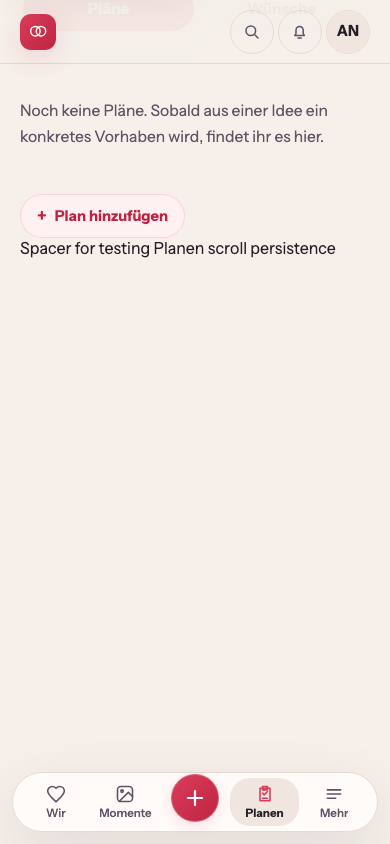
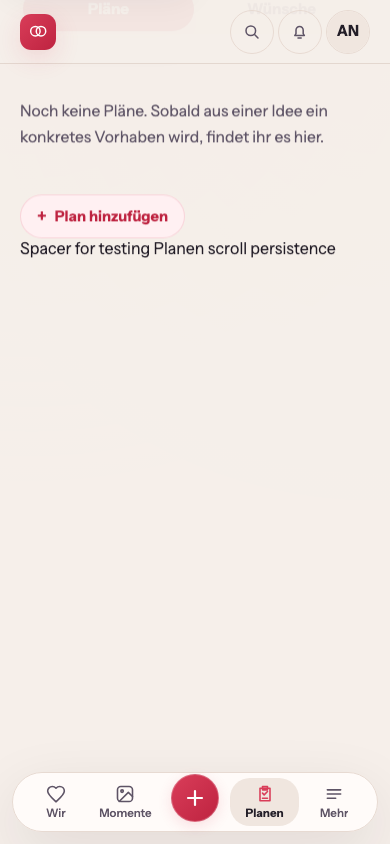
fix(web): reset floating bottom nav visibility on same-path peer mode changes (#970)
- Pass location.search into useHideOnScrollNav to key navigation identity by `${pathname}${search}`
- Reset bar visibility when switching between peer modes on /story (?tab=discover <-> ?tab=timeline)
- Correct documentation describing Momente feed views and remove references to /explore
- Add unit, component, and Playwright regression tests for same-path peer mode switching

diff --git a/web/src/components/AppShell.test.tsx b/web/src/components/AppShell.test.tsx
@@ -5,8 +5,9 @@ import {
   QueryClientProvider,
 } from '@tanstack/react-query';
 import { act, render, waitFor } from '@testing-library/react';
+import { useEffect } from 'react';
 import { renderToStaticMarkup } from 'react-dom/server';
-import { MemoryRouter } from 'react-router-dom';
+import { MemoryRouter, useNavigate } from 'react-router-dom';
 import { authorSummaryQueryKeys } from '../client/authorSummaryConsumers';
 import navigation from '../i18n/locales/navigation';
 import { AppShell } from './AppShell';
@@ -507,5 +508,88 @@ describe('AppShell', () => {
       window.dispatchEvent(new Event('scroll'));
     });
     expect(planBottomShell?.getAttribute('data-hidden')).toBe('false');
+  });
+
+  it('resets data-hidden="false" on same-path search query changes (/story?tab=discover <-> /story?tab=timeline) (#970)', () => {
+    const queryClient = new QueryClient({
+      defaultOptions: { queries: { retry: false } },
+    });
+    queryClient.setQueryData(authorSummaryQueryKeys.space('space-1'), {
+      id: 'space-1',
+      createdAt: new Date('2024-01-01T00:00:00.000Z'),
+      partners: [],
+    });
+
+    Object.defineProperty(document.documentElement, 'scrollHeight', {
+      value: 3000,
+      configurable: true,
+    });
+    Object.defineProperty(window, 'innerHeight', {
+      value: 800,
+      configurable: true,
+    });
+    Object.defineProperty(window, 'scrollY', {
+      value: 0,
+      writable: true,
+      configurable: true,
+    });
+
+    let navigateFn: (to: string) => void = () => {};
+    function RouteTrigger() {
+      const navigate = useNavigate();
+      useEffect(() => {
+        navigateFn = (to: string) => navigate(to);
+      }, [navigate]);
+      return null;
+    }
+
+    const { container } = render(
+      <QueryClientProvider client={queryClient}>
+        <MemoryRouter initialEntries={['/story?tab=discover']}>
+          <RouteTrigger />
+          <AppShell
+            onLogout={() => undefined}
+            apiBaseUrl="http://api.example.test"
+            accessToken="test-token"
+            account={{ id: 'account-1', displayName: 'Alex Example' }}
+            spaceId="space-1"
+          >
+            <div style={{ height: '3000px' }}>Feed content</div>
+          </AppShell>
+        </MemoryRouter>
+      </QueryClientProvider>,
+    );
+
+    const bottomShell = container.querySelector('.mobile-bottom-shell');
+    expect(bottomShell).not.toBeNull();
+    expect(bottomShell?.getAttribute('data-hidden')).toBe('false');
+
+    // Scroll down 100px to hide bottom shell
+    act(() => {
+      window.scrollY = 100;
+      window.dispatchEvent(new Event('scroll'));
+    });
+    expect(bottomShell?.getAttribute('data-hidden')).toBe('true');
+
+    // Peer mode switch on same pathname (/story?tab=discover -> /story?tab=timeline)
+    act(() => {
+      navigateFn('/story?tab=timeline');
+    });
+
+    expect(bottomShell?.getAttribute('data-hidden')).toBe('false');
+
+    // Scroll down again in timeline mode
+    act(() => {
+      window.scrollY = 200;
+      window.dispatchEvent(new Event('scroll'));
+    });
+    expect(bottomShell?.getAttribute('data-hidden')).toBe('true');
+
+    // Switch back to discover mode (/story?tab=timeline -> /story?tab=discover)
+    act(() => {
+      navigateFn('/story?tab=discover');
+    });
+
+    expect(bottomShell?.getAttribute('data-hidden')).toBe('false');
   });
 });

diff --git a/web/src/client/useHideOnScrollNav.test.ts b/web/src/client/useHideOnScrollNav.test.ts
@@ -1,12 +1,15 @@
+// @vitest-environment jsdom
+import { act, renderHook } from '@testing-library/react';
 import { describe, expect, it } from 'vitest';
 import {
   computeScrollNavStep,
   createInitialScrollNavState,
   isHideOnScrollRoute,
+  useHideOnScrollNav,
 } from './useHideOnScrollNav';
 
 describe('isHideOnScrollRoute', () => {
-  it('enables hide-on-scroll for Momente / Timeline and Entdecken feeds', () => {
+  it('enables hide-on-scroll for Momente feed surfaces and year archives', () => {
     expect(isHideOnScrollRoute('/story')).toBe(true);
     expect(isHideOnScrollRoute('/story/years')).toBe(true);
     expect(isHideOnScrollRoute('/story/years/2026')).toBe(true);
@@ -206,5 +209,68 @@ describe('computeScrollNavStep', () => {
       ...scrollablePage,
     });
     expect(state.isVisible).toBe(true);
+  });
+});
+
+describe('useHideOnScrollNav hook', () => {
+  it('starts visible on /story?tab=discover', () => {
+    const { result } = renderHook(() =>
+      useHideOnScrollNav('/story', '?tab=discover'),
+    );
+    expect(result.current.isVisible).toBe(true);
+  });
+
+  it('resets visibility to visible when switching search params between discover and timeline', () => {
+    Object.defineProperty(document.documentElement, 'scrollHeight', {
+      value: 3000,
+      configurable: true,
+    });
+    Object.defineProperty(window, 'innerHeight', {
+      value: 800,
+      configurable: true,
+    });
+    Object.defineProperty(window, 'scrollY', {
+      value: 0,
+      writable: true,
+      configurable: true,
+    });
+
+    const { result, rerender } = renderHook(
+      ({ pathname, search }: { pathname: string; search: string }) =>
+        useHideOnScrollNav(pathname, search),
+      {
+        initialProps: { pathname: '/story', search: '?tab=discover' },
+      },
+    );
+
+    expect(result.current.isVisible).toBe(true);
+
+    // Simulate downward scroll by 100px (> 50px threshold)
+    act(() => {
+      window.scrollY = 100;
+      window.dispatchEvent(new Event('scroll'));
+    });
+    expect(result.current.isVisible).toBe(false);
+
+    // Switch peer mode: /story?tab=discover -> /story?tab=timeline
+    act(() => {
+      rerender({ pathname: '/story', search: '?tab=timeline' });
+    });
+    // Navigation identity change MUST restore visibility!
+    expect(result.current.isVisible).toBe(true);
+
+    // Scroll down again on timeline mode
+    act(() => {
+      window.scrollY = 200;
+      window.dispatchEvent(new Event('scroll'));
+    });
+    expect(result.current.isVisible).toBe(false);
+
+    // Switch reverse mode: /story?tab=timeline -> /story?tab=discover
+    act(() => {
+      rerender({ pathname: '/story', search: '?tab=discover' });
+    });
+    // Reverse switch also restores visibility!
+    expect(result.current.isVisible).toBe(true);
   });
 });

diff --git a/web/e2e/tests/floating-bottom-nav-scroll.spec.ts b/web/e2e/tests/floating-bottom-nav-scroll.spec.ts
@@ -635,4 +635,61 @@ test.describe('Context-Aware Hide-on-Scroll Navigation (#970)', () => {
       dimensionsBefore.scrollWidth,
     );
   });
+
+  test('Momente same-path peer mode navigation: switching Discover ↔ Timeline through product UI restores visible bottom navigation (#970)', async ({
+    page,
+  }) => {
+    await page.setViewportSize({ width: 390, height: 844 });
+    await installApiMocks(page);
+    await page.goto('/login');
+    await signIn(page);
+    await page.waitForURL('**/today');
+
+    // 1. Open /story?tab=discover
+    await page.goto('/story?tab=discover');
+    await page.waitForSelector('.momente-discover-page');
+    const bottomShell = page.locator('.mobile-bottom-shell');
+    await expect(bottomShell).toBeVisible();
+    await expect(bottomShell).toHaveAttribute('data-hidden', 'false');
+
+    // 2. Scroll enough to hide the bottom bar (> 50px downward scroll)
+    await page.evaluate(() => {
+      window.scrollTo({ top: 80, behavior: 'instant' });
+      window.dispatchEvent(new Event('scroll'));
+    });
+    await expect(bottomShell).toHaveAttribute('data-hidden', 'true');
+
+    // 3. Switch to Timeline through the actual product UI
+    const timelineTab = page.getByRole('tab', { name: de.story.tabTimeline });
+    await expect(timelineTab).toBeVisible();
+    await timelineTab.click();
+
+    // Verify switch to Timeline mode
+    await page.waitForSelector('.story-timeline');
+    await expect(page).toHaveURL(/.*[?&]tab=timeline/);
+
+    // 4. Assert bottom navigation becomes visible
+    await expect(bottomShell).toBeVisible();
+    await expect(bottomShell).toHaveAttribute('data-hidden', 'false');
+
+    // 5. Verify reverse mode switch: scroll to hide while in Timeline
+    await page.evaluate(() => {
+      window.scrollTo({ top: window.scrollY + 80, behavior: 'instant' });
+      window.dispatchEvent(new Event('scroll'));
+    });
+    await expect(bottomShell).toHaveAttribute('data-hidden', 'true');
+
+    // Switch back to Discover through the actual product UI
+    const discoverTab = page.getByRole('tab', { name: de.story.tabDiscover });
+    await expect(discoverTab).toBeVisible();
+    await discoverTab.click();
+
+    // Verify switch back to Discover mode
+    await page.waitForSelector('.momente-discover-page');
+    await expect(page).toHaveURL(/.*[?&]tab=discover/);
+
+    // Assert bottom navigation becomes visible on reverse switch
+    await expect(bottomShell).toBeVisible();
+    await expect(bottomShell).toHaveAttribute('data-hidden', 'false');
+  });
 });

diff --git a/web/src/client/useHideOnScrollNav.ts b/web/src/client/useHideOnScrollNav.ts
@@ -27,7 +27,7 @@ export const HIDE_ON_SCROLL_CONSTANTS = {
  * where hide-on-scroll should be active.
  *
  * Requirements:
- * - Momente / Timeline & Entdecken (/story, /story/years, /story/years/:year): true
+ * - Momente feeds on /story (including ?tab=discover and ?tab=timeline) as well as year archives (/story/years): true
  * - Form / Create / Edit flows (/new, /edit): false (persistent/follow flow behaviour)
  * - Heute (/today), Planen (/plan), Mehr (/more), Games (/games): false (persistent by default)
  */
@@ -162,21 +162,27 @@ export function computeScrollNavStep(
 
 /**
  * Hook to manage context-aware hide-on-scroll for the floating bottom shell.
+ *
+ * Resets visibility on navigation identity changes (pathname + search),
+ * covering both route changes and same-path peer mode transitions
+ * such as Momente Discover <-> Timeline (/story?tab=discover <-> /story?tab=timeline) (#970).
  */
-export function useHideOnScrollNav(pathname: string) {
+export function useHideOnScrollNav(pathname: string, search = '') {
   const isEnabled = isHideOnScrollRoute(pathname);
   const [isVisible, setIsVisible] = useState(true);
   const stateRef = useRef<ScrollNavigationState>(createInitialScrollNavState());
   const shellRef = useRef<HTMLDivElement | null>(null);
 
-  // Route changes always restore correct visible navigation state
+  const navigationKey = `${pathname}${search}`;
+
+  // Navigation identity changes (route or peer mode search params) always restore visible navigation state
   useEffect(() => {
-    void pathname;
+    void navigationKey;
     stateRef.current = createInitialScrollNavState(
       typeof window !== 'undefined' ? window.scrollY : 0,
     );
     setIsVisible(true);
-  }, [pathname]);
+  }, [navigationKey]);
 
   useEffect(() => {
     if (!isEnabled || typeof window === 'undefined') {
@@ -186,11 +192,16 @@ export function useHideOnScrollNav(pathname: string) {
 
     const handleScroll = (event: Event) => {
       // Nested controls must not accidentally hide global navigation
-      if (
-        event.target !== document &&
-        event.target !== window &&
-        event.target !== document.documentElement
-      ) {
+      const target = event.target;
+      const isRootTarget =
+        !target ||
+        target === window ||
+        target === document ||
+        target === document.documentElement ||
+        target === document.body ||
+        target === event.currentTarget;
+
+      if (!isRootTarget) {
         return;
       }
 

diff --git a/web/src/components/AppShell.tsx b/web/src/components/AppShell.tsx
@@ -149,7 +149,7 @@ function AuthenticatedAppShell({
 
   const location = useLocation();
   const { isVisible: isBottomNavVisible, shellRef: bottomNavRef } =
-    useHideOnScrollNav(location.pathname);
+    useHideOnScrollNav(location.pathname, location.search);
   const isPrivateArea = location.pathname.startsWith('/more/private');
   const isMemoryTask = location.pathname === MEMORY_CREATE_ROUTE;
   const gamesPath = appRoutePath('games');
